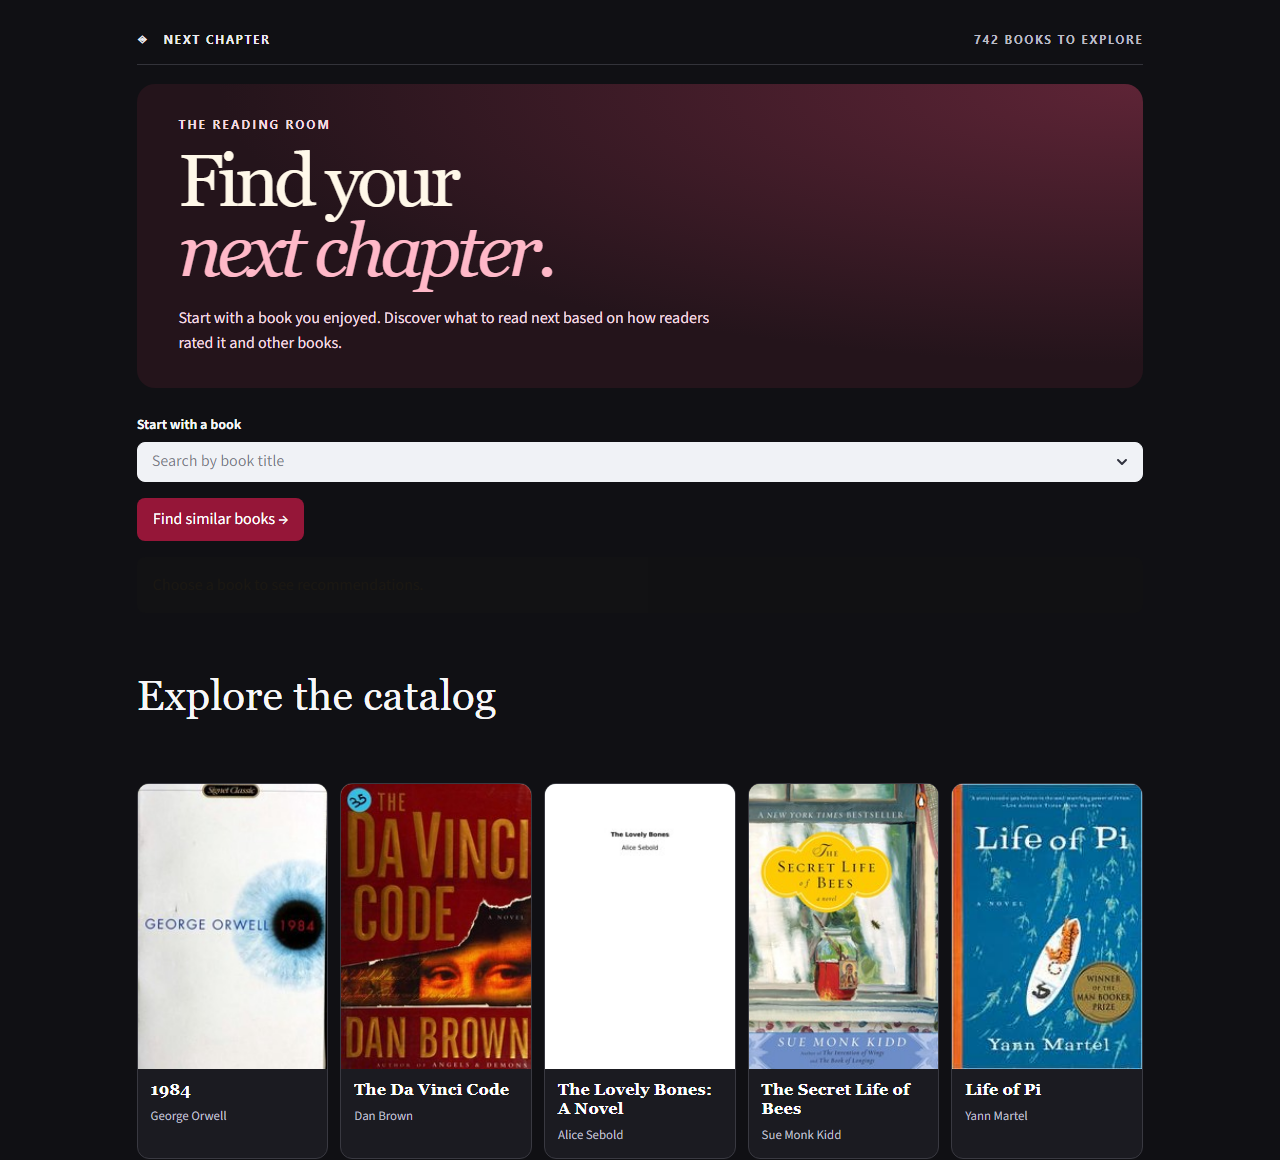
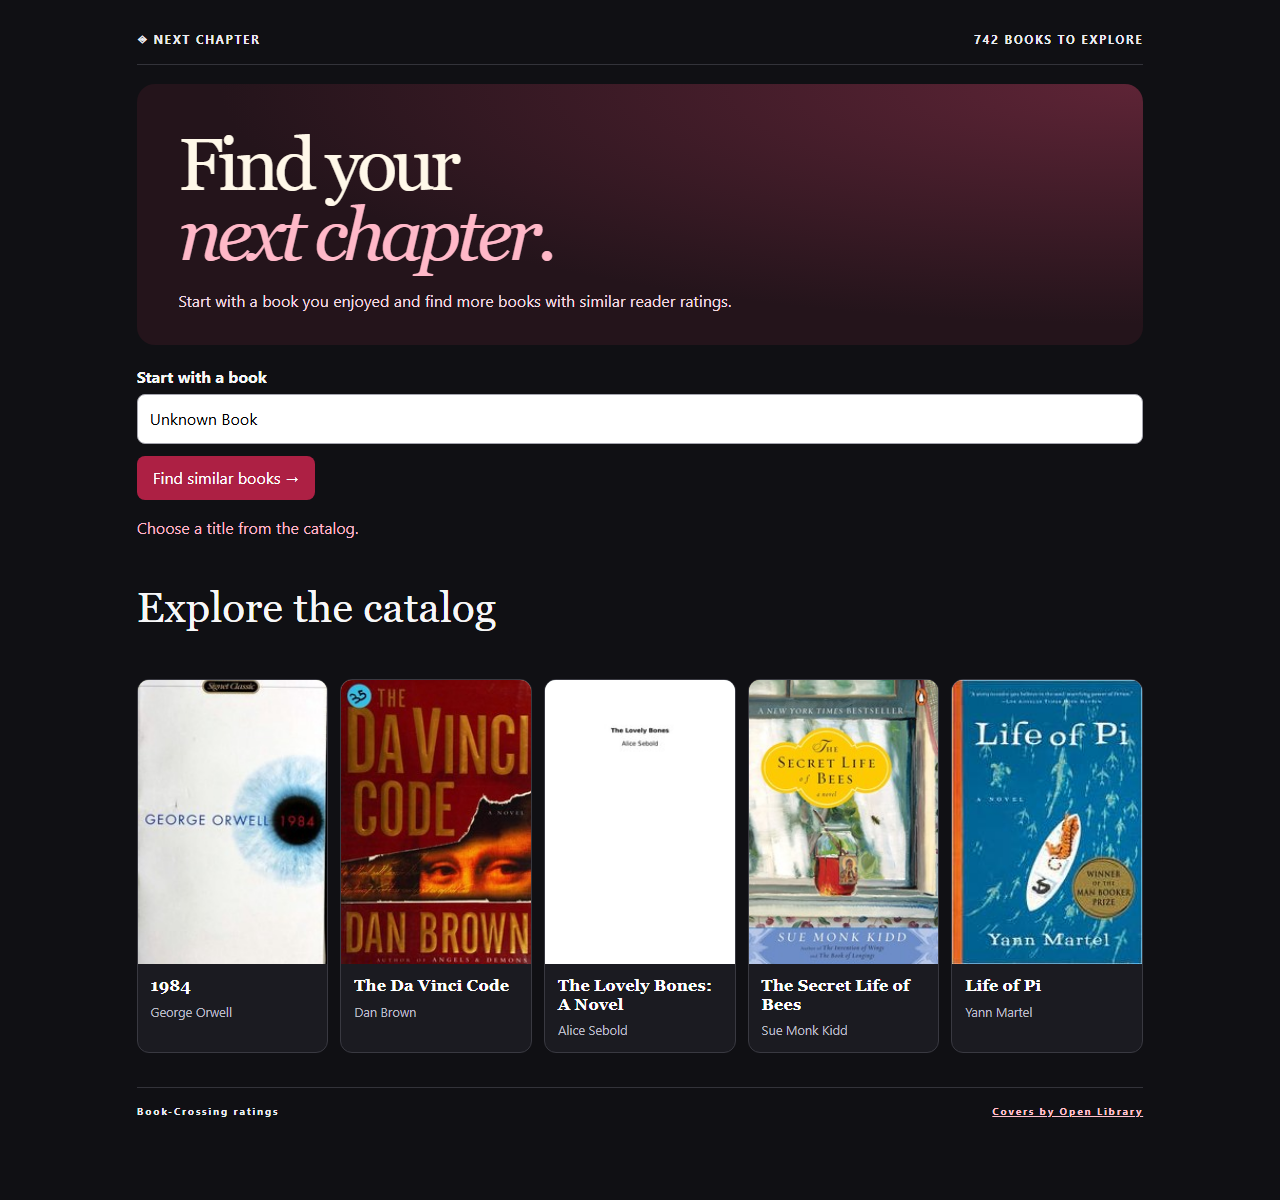
Publish Vercel demo and refresh product screenshots

diff --git a/vercel-demo/styles.css b/vercel-demo/styles.css
@@ -1,0 +1,68 @@
+.stApp {background:#f7f4ed;color:#222822}
+[data-testid="stHeader"] {background:transparent}
+[data-testid="stToolbar"] {display:none}
+.block-container {max-width:1080px;padding:2rem 2.3rem 2rem}
+.masthead,.app-footer {display:flex;justify-content:space-between;gap:1rem;border-bottom:1px solid #d8d5c8;padding:0 0 1rem;font:700 .72rem system-ui;letter-spacing:.16em;color:#354c3f}
+.catalog-count {color:#526053;text-align:right}
+.hero {margin:1.2rem 0 .6rem;padding:2.8rem 2.6rem;background:#18382e;color:#fff8e9;border-radius:18px;background-image:radial-gradient(ellipse at 100% 100%,#395b46,transparent 55%)}
+.eyebrow,.section-label {font:700 .73rem system-ui;letter-spacing:.19em;color:#536456}
+.hero .eyebrow {color:#d4e1c9}
+.hero h1 {font:400 clamp(3rem,8vw,6rem)/.95 Georgia,serif;letter-spacing:-.06em;margin:.85rem 0 1.2rem;padding:0;color:inherit}
+.hero h1 em {color:#dae5b4;font-weight:400}
+.hero p {max-width:35rem;margin:0;color:#e1e9dc;font-size:1rem}
+[data-testid="stForm"] {padding:0}
+[data-testid="stFormSubmitButton"] button {background:#214737;color:#fff;border:0;border-radius:8px;padding:.55rem 1rem}
+[data-testid="stFormSubmitButton"] button:hover {background:#35624e;color:#fff}
+[data-testid="stWidgetLabel"] p {color:#222822;font-weight:650}
+.section-title,.empty-list h2 {font:400 clamp(1.7rem,4vw,2.65rem)/1.15 Georgia,serif;color:#233c30;padding:.45rem 0 .75rem}
+.empty-list {border:1px dashed #b9b8a7;border-radius:12px;padding:1rem 1.3rem;margin-top:.5rem}
+.empty-list p {color:#495649;margin:0}
+.book-grid {list-style:none;display:grid;grid-template-columns:repeat(auto-fit,minmax(min(9rem,100%),1fr));gap:.75rem;padding:0;margin:0}
+.book-card {list-style:none;overflow:hidden;border:1px solid #dddacf;border-radius:12px;background:#fffcf4;min-width:0}
+.book-art {display:grid;place-items:center;position:relative;aspect-ratio:1.2;background:#c4d0a1;color:#223923}
+.book-art::before {content:"";position:absolute;inset:12%;border:1px solid currentColor;border-radius:50%;opacity:.4}
+.tone-1 {background:#ebc1ac;color:#6c332b}.tone-2 {background:#b7c9cb;color:#25434a}.tone-3 {background:#e6d3a2;color:#584821}.tone-4 {background:#cbbfd2;color:#493e57}
+.book-initial {font:italic 4rem Georgia,serif}
+.book-rank {position:absolute;left:9px;top:7px;font:700 .67rem system-ui;letter-spacing:.12em}
+.book-copy {padding:.8rem}.book-copy h3 {font:700 1.03rem/1.15 Georgia,serif;color:#22342a;padding:0;margin:0 0 .35rem;overflow-wrap:anywhere}
+.book-copy p {font-size:.8rem;color:#526053;margin:0}
+.app-footer {border-bottom:0;border-top:1px solid #d8d5c8;padding:1rem 0 0;margin-top:1.5rem;font-size:.65rem}
+@media (max-width:600px) {.block-container{padding:1.1rem 1rem}.hero{padding:2rem 1.2rem}.book-grid{grid-template-columns:repeat(2,minmax(0,1fr))}.app-footer{flex-wrap:wrap}}
+
+.stApp {background:#101014;color:#f7f7f8}
+.masthead,.app-footer {border-color:#33333a;color:#ececf0}
+.catalog-count,.section-label {color:#bcbcc5}
+.hero {padding:2rem 2.6rem;background:#24141b;background-image:radial-gradient(ellipse at 100% 0%,#5e2436,transparent 65%)}
+.hero h1 {font-family:Georgia,serif;font-size:clamp(2.6rem,7vw,4.6rem)}
+.hero h1 em {color:#ffb8c8}
+.hero p,.hero .eyebrow {color:#f3dce2}
+[data-testid="stWidgetLabel"] p,.section-title {color:#f7f7f8}
+[data-testid="stFormSubmitButton"] button {background:#b51e42}
+[data-testid="stFormSubmitButton"] button:hover {background:#951638}
+ol.book-grid {display:grid;grid-auto-flow:column;grid-auto-columns:calc((100% - 3rem) / 5);grid-template-columns:none;overflow-x:auto;scroll-snap-type:x proximity;padding:0 0 .6rem;margin:0;scrollbar-color:#777781 #202026}
+.book-card {scroll-snap-align:start;border-color:#393941;background:#1b1b21}
+.book-art {aspect-ratio:2/3}
+.cover-image {position:absolute;inset:0;background-position:center;background-repeat:no-repeat;background-size:cover}
+.book-copy h3 {color:#fff}
+.book-copy p {color:#bcbcc5}
+.app-footer a {color:#ffc0ce}
+@media (max-width:600px) {
+  .hero {padding:1.6rem 1.2rem}
+  ol.book-grid {grid-auto-columns:42%}
+}
+
+.ranking-note {color:#bcbcc5;max-width:65ch}
+.book-reason {border-top:1px solid #393941;margin-top:.7rem;padding-top:.55rem}
+.book-reason summary {color:#ffccd7;font-size:.8rem;cursor:pointer}
+.book-reason p {margin:.4rem 0 0;line-height:1.45}
+
+* {box-sizing:border-box}
+body {margin:0;background:#101014;color:#f7f7f8;font:1rem/1.5 system-ui}
+main {margin:auto}
+form {margin:1.25rem 0}
+form label {display:block;font-weight:650;margin-bottom:.35rem}
+form input {display:block;width:100%;padding:.75rem;border:1px solid #a5a5ae;border-radius:8px;font:inherit}
+form button {margin-top:.7rem;padding:.65rem 1rem;background:#ad2044;color:white;border:0;border-radius:8px;font:inherit;cursor:pointer}
+form :focus-visible,.book-reason summary:focus-visible {outline:2px solid #ffb8c8;outline-offset:3px}
+#status {color:#ffb8c8}
+#status:empty {margin:0}

diff --git a/vercel-demo/app.js b/vercel-demo/app.js
@@ -1,0 +1,66 @@
+const find = (selector) => document.querySelector(selector);
+const input = find("#title");
+const status = find("#status");
+const shelf = find(".book-grid");
+
+function element(tag, className, text) {
+  const node = document.createElement(tag);
+  if (className) node.className = className;
+  if (text) node.textContent = text;
+  return node;
+}
+
+function showBooks(books, entries) {
+  shelf.replaceChildren(...entries.map(([index, overlap], rank) => {
+    const [title, author, isbn] = books[index];
+    const card = element("li", "book-card");
+    const artwork = element("div", `book-art tone-${rank % 5}`);
+    artwork.setAttribute("aria-hidden", "true");
+    artwork.append(element("span", "book-initial", title[0]));
+    if (isbn) {
+      const image = element("span", "cover-image");
+      image.style.backgroundImage = `url(https://covers.openlibrary.org/b/isbn/${isbn}-M.jpg?default=false)`;
+      artwork.append(image);
+    }
+    const copy = element("div", "book-copy");
+    copy.append(element("h3", "", title), element("p", "", author || "Author unavailable"));
+    if (overlap !== undefined) {
+      const details = element("details", "book-reason");
+      const shared = overlap === 0
+        ? "No readers gave both books a score in this dataset."
+        : `${overlap} ${overlap === 1 ? "reader" : "readers"} gave both books a score.`;
+      details.append(element("summary", "", "Why this book?"),
+        element("p", "", `Its rating pattern was among the five closest to your chosen book. ${shared}`));
+      copy.append(details);
+    }
+    card.append(artwork, copy);
+    return card;
+  }));
+}
+
+try {
+  const response = await fetch("./catalog.json");
+  if (!response.ok) throw new Error("Catalog unavailable");
+  const books = await response.json();
+  const titles = new Map(books.map(([title], index) => [title, index]));
+  find("#count").textContent = `${books.length} BOOKS TO EXPLORE`;
+  find("#titles").append(...books.map(([title]) => element("option", "", title)));
+  const featured = ["1984", "The Da Vinci Code", "The Lovely Bones: A Novel", "The Secret Life of Bees", "Life of Pi"];
+  showBooks(books, featured.filter(title => titles.has(title)).map(title => [titles.get(title)]));
+  find("form").addEventListener("submit", (event) => {
+    event.preventDefault();
+    const index = titles.get(input.value.trim());
+    if (index === undefined) {
+      status.textContent = "Choose a title from the catalog.";
+      return;
+    }
+    status.textContent = "";
+    find("#heading").textContent = `If you liked ${books[index][0]}`;
+    find("#note").hidden = false;
+    showBooks(books, books[index][3]);
+  });
+  input.disabled = false;
+  find("button").disabled = false;
+} catch {
+  status.textContent = "The catalog could not load. Refresh the page to try again.";
+}

diff --git a/vercel-demo/index.html b/vercel-demo/index.html
@@ -1,0 +1,28 @@
+<!doctype html>
+<html lang="en">
+<meta charset="utf-8">
+<meta name="viewport" content="width=device-width, initial-scale=1">
+<title>Next Chapter | Book Discovery</title>
+<link rel="stylesheet" href="styles.css">
+<main class="block-container">
+  <header class="masthead"><span>◈ NEXT CHAPTER</span><span id="count"></span></header>
+  <section class="hero">
+    <h1>Find your<br><em>next chapter.</em></h1>
+    <p>Start with a book you enjoyed and find more books with similar reader ratings.</p>
+  </section>
+  <form>
+    <label for="title">Start with a book</label>
+    <input id="title" list="titles" placeholder="Search by book title" required disabled>
+    <datalist id="titles"></datalist>
+    <button disabled>Find similar books →</button>
+    <p id="status" role="status"></p>
+  </form>
+  <section aria-labelledby="heading">
+    <h2 class="section-title" id="heading">Explore the catalog</h2>
+    <p class="ranking-note" id="note" hidden>We compare rating patterns across readers. The shared reader count provides context for each match.</p>
+    <ol class="book-grid"></ol>
+  </section>
+  <footer class="app-footer"><span>Book-Crossing ratings</span><a href="https://openlibrary.org/dev/docs/api/covers">Covers by Open Library</a></footer>
+</main>
+<script type="module" src="app.js"></script>
+</html>

diff --git a/export_catalog.py b/export_catalog.py
@@ -1,0 +1,42 @@
+"""Export the Python model's top five matches for the Vercel browser demo."""
+import json
+from pathlib import Path
+
+import pandas as pd
+
+from recommender import BookRecommender
+
+ROOT = Path(__file__).resolve().parent
+
+
+def main():
+    artifacts = ROOT / "artifacts"
+    metadata = pd.read_pickle(artifacts / "final_rating.pkl")
+    ratings = pd.read_pickle(artifacts / "book_pivot.pkl")
+    recommender = BookRecommender(ratings, metadata)
+
+    isbns = metadata["ISBN"].astype(str).str.strip().str.upper()
+    valid_isbns = isbns.str.fullmatch(r"(?:[0-9]{9}[0-9X]|[0-9]{13})")
+    editions = metadata.assign(ISBN=isbns).loc[valid_isbns]
+    counts = editions.groupby(["title", "ISBN"]).size().reset_index(name="ratings")
+    preferred = counts.sort_values(
+        ["ratings", "ISBN"], ascending=[False, True]
+    ).drop_duplicates("title")
+    cover_isbns = dict(zip(preferred["title"], preferred["ISBN"]))
+
+    catalog = []
+    for title in recommender.titles:
+        matches = [
+            [recommender.positions[match], recommender.shared_explicit_ratings(title, match)]
+            for match in recommender.recommend(title)
+        ]
+        catalog.append([
+            title, str(recommender.authors.get(title, "")), cover_isbns.get(title, ""), matches
+        ])
+
+    output = ROOT / "vercel-demo" / "catalog.json"
+    output.write_text(json.dumps(catalog, ensure_ascii=False, separators=(",", ":")), encoding="utf-8")
+
+
+if __name__ == "__main__":
+    main()

diff --git a/README.md b/README.md
@@ -6,9 +6,11 @@ Discover your next read through an interactive Streamlit app that recommends boo
 ![Streamlit](https://img.shields.io/badge/UI-Streamlit-FF4B4B?logo=streamlit&logoColor=white)
 ![scikit-learn](https://img.shields.io/badge/ML-scikit--learn-F7931E?logo=scikitlearn&logoColor=white)
 
+**[Try the live demo on Vercel](https://ml-book-recommendation-system.vercel.app)**
+
 ## Product screenshots
 
-**Next Chapter** shows real book covers in horizontal shelves. Search for a title, explore five recommendations, and open **Why this book?** to see how the model found each match.
+These seven screenshots were captured from the live Vercel demo. **Next Chapter** shows real book covers in horizontal shelves. Search for a title, explore five recommendations, and open **Why this book?** to see how the model found each match.
 
 ![Next Chapter landing screen with book search and a featured cover shelf](docs/images/01-discover.png)
 
@@ -16,9 +18,9 @@ Discover your next read through an interactive Streamlit app that recommends boo
 | --- | --- |
 | ![Searching for 1984](docs/images/03-search.png) | ![Five recommendations based on 1984](docs/images/04-recommendations.png) |
 
-| Try another title | Mobile layout | Empty selection |
+| Try another title | Mobile layout | Invalid title |
 | --- | --- | --- |
-| ![Recommendations for The Da Vinci Code](docs/images/05-another-book.png) | ![Reading list at mobile width](docs/images/06-mobile.png) | ![Prompt to choose a book](docs/images/02-empty-selection.png) |
+| ![Recommendations for The Da Vinci Code](docs/images/05-another-book.png) | ![Reading list at mobile width](docs/images/06-mobile.png) | ![Prompt to choose a title from the catalog](docs/images/02-empty-selection.png) |
 
 ![Why this book explanation open beneath a recommendation](docs/images/07-why-this-book.png)
 
@@ -149,7 +151,9 @@ Run the notebook cells in order from the repository root. Its export cells overw
 
 ## Live demo
 
-A public Vercel deployment is pending. To try the interactive app, follow the [local setup instructions](#run-locally).
+The [Vercel demo](https://ml-book-recommendation-system.vercel.app) serves the browser interface in `vercel-demo/`. It uses an exported catalog containing the five nearest matches and shared reader counts for each of the 742 titles. The local Streamlit app computes those matches from the bundled ratings matrix.
+
+After regenerating the model artifacts, run `python export_catalog.py` from the repository root to refresh the browser catalog before redeploying the demo.
 
 ## Limitations and future improvements
 
